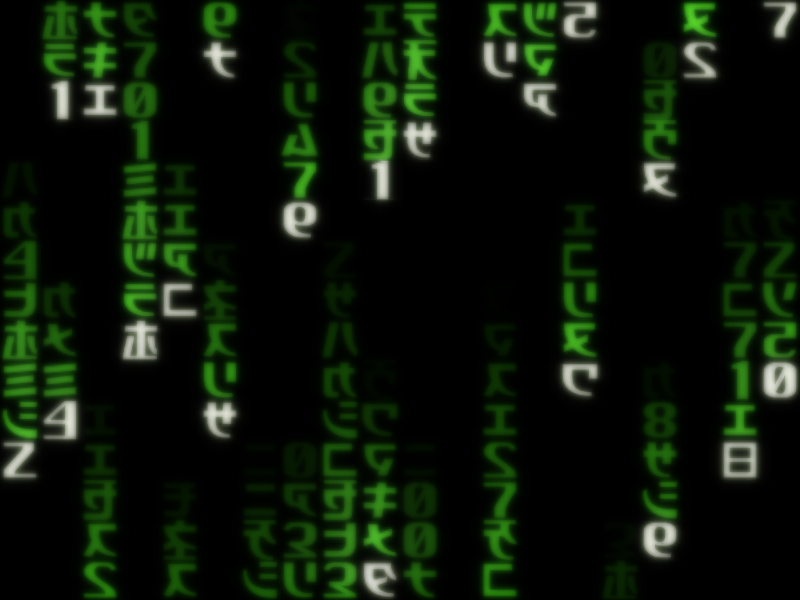
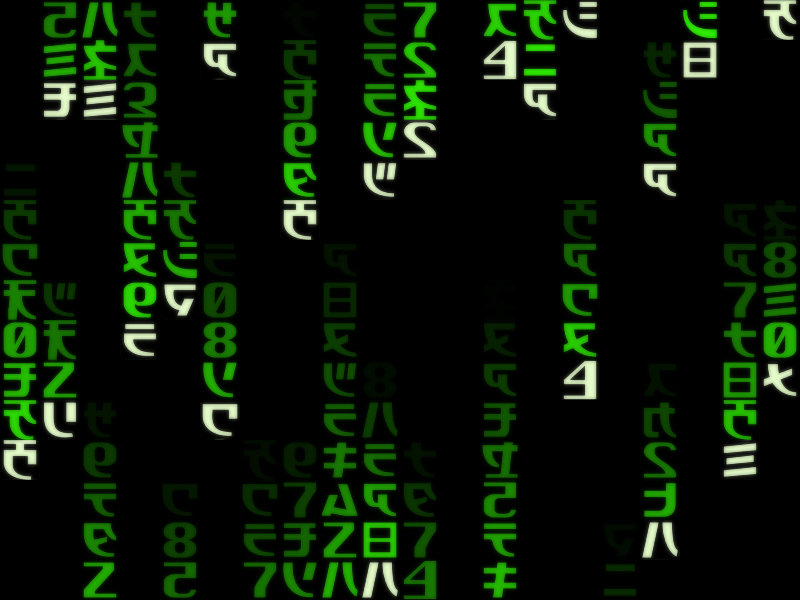
Massively increase maximum effective bloom radius using downsampling

diff --git a/contents/ui/main.qml b/contents/ui/main.qml
@@ -283,7 +283,9 @@ Rectangle {
         sourceItem: squaredContainer
         hideSource: true
         anchors.fill: squaredContainer
-        visible: false // This works perfectly because FastBlur is a ShaderEffect!
+        visible: false
+        // Downsample by 4x to massively increase the effective blur radius (up to 256px equivalent)
+        textureSize: Qt.size(Math.max(1, squaredContainer.width / 4), Math.max(1, squaredContainer.height / 4))
     }
 
     // Define properties updated explicitly every frame to bypass QML var binding bugs
@@ -297,7 +299,8 @@ Rectangle {
         id: blurCore
         anchors.fill: parent
         source: squaredSource
-        radius: Math.min(16, Math.max(1, 16 * root.bloomRadiusMultiplier))
+        // Allow radius up to the FastBlur limit of 64
+        radius: Math.min(64, Math.max(1, 16 * root.bloomRadiusMultiplier))
         transparentBorder: true
         visible: false
     }